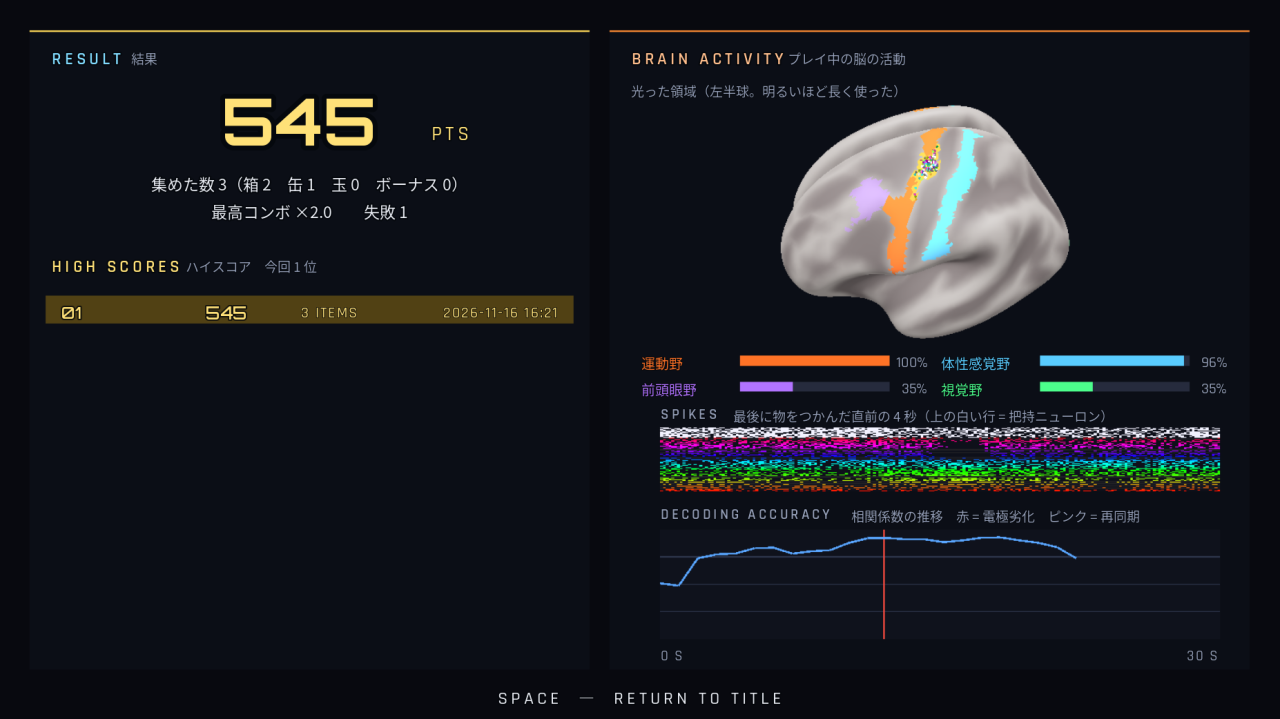
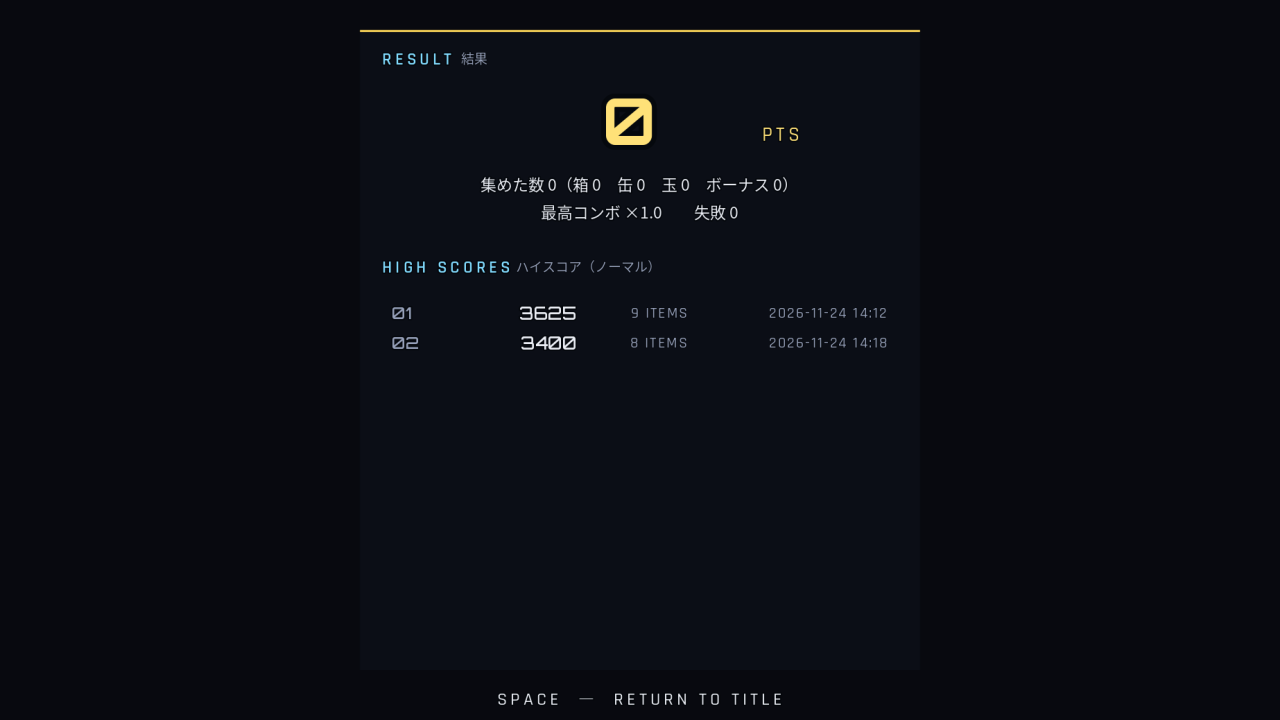
BCIオペレーター: 結果画面の右側(プレイ中の脳の活動)をなくし、結果とハイスコアのカードを中央に。使わなくなった記録(brain_record.py)も削除

diff --git a/03_bci_game/main.py b/03_bci_game/main.py
@@ -47,7 +47,6 @@ from OpenGL import GL as gl   # noqa: E402
 import config        # noqa: E402
 import highscore     # noqa: E402
 from brain_model import BrainModel                                  # noqa: E402
-from brain_record import BrainRecord                                # noqa: E402
 from brain_renderer import BrainView                                # noqa: E402
 from cortex_sim import CortexSim                                    # noqa: E402
 from field import Field                                             # noqa: E402
@@ -112,7 +111,6 @@ class Game:
         self.flash_until = 0.0           # 電極劣化の赤いフラッシュ
         self.popups = []                 # (文字, ワールド座標, 出た時刻)：得点の表示
         self.mission = None
-        self.record = BrainRecord()
         self.final = None                # 結果画面に出すもの
         self.recalibrating = False
         self.resume_play = False
@@ -202,7 +200,6 @@ class Game:
             self.last_bump = -1e9
             if self.rival is not None:
                 self.rival.reset()
-            self.record = BrainRecord()
             self.grip_switch = GripSwitch()
             self._prev_score = 0
             cam.yaw, cam.pitch, cam.goal_dist = -100.0, 30.0, 3.7
@@ -321,7 +318,6 @@ class Game:
         elif key == glfw.KEY_L and self.state == "play" and not self.recalibrating:
             self.recalibrating = True                   # 再同期（制限時間は進み続ける）
             self.hand_calib.start()
-            self.record.mark(self.mission.play_time, "recal_start")
             self.mission.log("recalibrate_start")
             self.events.append("recalibrate_start")
             self.notify("再同期：ターゲットを手で追いかける")
@@ -444,8 +440,6 @@ class Game:
                     motor = max(self.cortex.motor_drive, self.cortex.grip_drive)
                     self.brain.update_glow({"fef": selecting, "visual": selecting, "motor": motor, "hand": motor,
                                             "somato": self.cortex.grip_drive}, dt)
-                if self.state == "play":
-                    self.record.update(dt, self.brain.glow, self.cortex.metrics, self.mission.play_time)
 
                 self.view.render(now - start, dt, gaze, fps)
                 self.log_frame(now - start, gaze, g)
@@ -544,7 +538,6 @@ class Game:
             else:
                 self.notify(msg, 4.0)
                 self.recalibrating = False
-                self.record.mark(self.mission.play_time, "recal_end")
             return
         info = self.cortex.fit(*hc.data())
         lv = self.cortex.grip.levels
@@ -553,7 +546,6 @@ class Game:
         self.grip_switch = GripSwitch()
         if self.recalibrating:
             self.recalibrating = False
-            self.record.mark(self.mission.play_time, "recal_end")
             self.mission.log("recalibrate_ok")
             self.notify("再同期 完了：精度が戻った")
         elif self.state == "hand_calib":
@@ -569,7 +561,6 @@ class Game:
         if m.degrade_due():
             k = self.cortex.dropout(config.DEGRADE_FRACTION, config.DEGRADE_GRIP_FRACTION)
             m.log(f"degrade:{k}")
-            self.record.mark(m.play_time, "degrade")
             self.events.append(f"degrade:{k}")
             self.flash_until = time.monotonic() + config.DEGRADE_FLASH_SEC
             self.scene.shake()
@@ -694,7 +685,6 @@ class Game:
         rv, m = self.rival, self.mission
         if rv is None or not rv.freeze():
             return
-        self.record.mark(m.play_time, "freeze")
         self.notify(f"ライバルを止めた！（{config.FREEZE_SEC:.0f} 秒）")
 
     def arm_velocity(self):
@@ -719,7 +709,6 @@ class Game:
                 self.notify(f"つかみ損ね（コンボ ×{m.combo_mult:.1f} に下がった）")
             elif res is not None:
                 self.events.append(f"grasp_ok:{res.type}")
-                self.record.snapshot_raster(self.cortex.raster)
                 self.notify(f"{res.spec['name']}をつかんだ！ カゴを見つめて運ぶ")
                 self.selected = None
             return
@@ -765,13 +754,11 @@ class Game:
             self.rival.on_player_lock(it, self.robot)     # 強さに応じた確率で横取りしにくる
 
     def finish_game(self):
-        """ゲーム終了：ハイスコアに加え、結果画面の振り返りを用意する"""
+        """ゲーム終了：ハイスコアに加え、結果画面に出すものを用意する"""
         m = self.mission
-        if self.record.raster is None:
-            self.record.snapshot_raster(self.cortex.raster)
         scores, rank = highscore.add(m.result.score, m.result.collected, self.score_key)
-        self.final = {"result": m.result, "scores": scores, "rank": rank, "record": self.record, "mode": self.mode,
-                      "key": self.score_key, "usage": self.record.usage(), "rival": None}
+        self.final = {"result": m.result, "scores": scores, "rank": rank, "mode": self.mode,
+                      "key": self.score_key, "rival": None}
         rv = self.rival
         if rv is not None:
             me, them = m.result.score, rv.score
@@ -784,9 +771,7 @@ class Game:
               f"順位 {None if rank is None else rank + 1}"
               + ("" if rv is None else f"、ライバル（{rv.level}）{rv.score}（{rv.collected} 個）→ "
                  f"{self.final['rival']['outcome']}、止めた回数 {rv.freezes}"))
-        # 結果画面の脳：プレイ中にどれだけ使ったかで光らせる
-        self.brain.glow[:] = 0
-        self.brain.update_glow(self.final["usage"], 10.0)
+        self.brain.glow[:] = 0                         # 脳の光を消しておく（次の「脳と接続中」の画面のため）
 
     # --------------------------------------------------------
     def check_color_register(self):

diff --git a/03_bci_game/config.py b/03_bci_game/config.py
@@ -206,7 +206,6 @@ DEGRADE_SHAKE_SEC = 1.2       # 劣化したときにカメラ（視点）が揺
 
 GRAB_MARGIN = 0.03            # グリッパーの先が物の半径 + この距離以内なら、つかめる
 SCAN_RADIUS = 0.08            # （未使用の互換用）
-ACCURACY_LOG_SEC = 1.0        # デコード精度の推移を記録する間隔 [秒]
 HIGHSCORE_FILE = "saves/highscores.json"
 HIGHSCORE_OLD_CHALLENGE_FILE = "saves/highscores_old_challenge.json"   # 以前の「劣化あり」のチャレンジの記録
 HIGHSCORE_OLD_DISTANCE_FILE = "saves/highscores_old_distance.json"     # 距離の倍率があった頃（得点のルールが違う）の記録

diff --git a/03_bci_game/README.md b/03_bci_game/README.md
@@ -9,7 +9,7 @@ BCI（Brain-Computer Interface）でロボットを操作して、**制限時間
 
 現実の赤・青の物をカメラに見せると、3D の世界にボーナスアイテムが降ってきます。
 プレイ中には「電極劣化」が起き、再同期（キャリブレーションのやり直し）をするかどうかを自分で判断します。
-脳の表示は、「脳と接続中」の画面（本物の脳がふくらむ演出）、結果画面の「プレイ中の脳の活動」の振り返り、B キーの「裏側」で見られます。
+脳の表示は、「脳と接続中」の画面（本物の脳がふくらむ演出）と、B キーの「裏側」で見られます。
 OpenCV（カメラ、色の検出、文字）と OpenGL（シェーダーによる 3D 描画）を両方使っています。
 
 ![プレイ画面](docs/play.png)
@@ -95,7 +95,7 @@ cd 03_bci_game
    - 一度に運べるのは 1 個。持っていないときは物だけ、持っているときはカゴだけを視線で選べる
    - 行き先を決めたあと、つかむ前に別の物へ乗り換えるには **約 2 秒** 見つめる（決めた直後の 1 秒は選べない）。今の行き先を見ているあいだは隣の物に吸い付かない
    - ロボットが移動している間はアームが動かないので、その間に手をカメラの中央へ戻しておくと楽
-5. **結果**：スコア（チャレンジは勝ち・負け・引き分けと両者のスコア、止めた回数）、そのモード（チャレンジは強さごと）のハイスコア（上位 10 件）、プレイ中の脳の活動の振り返り → SPACE でタイトルへ（4 章の「結果画面の見方」）
+5. **結果**：スコア（チャレンジは勝ち・負け・引き分けと両者のスコア、止めた回数）、そのモード（チャレンジは強さごと）のハイスコア（上位 10 件）→ SPACE でタイトルへ（4 章の「結果画面の見方」）
 
 ### ルール
 
@@ -188,13 +188,12 @@ cd 03_bci_game
 
 ![結果](docs/result.png)
 
+結果とハイスコアのカード 1 枚を、画面の中央に出す（以前は右側に「プレイ中の脳の活動」の振り返りがあったが、脳の絵と領域の棒は毎回ほぼ同じになるので外した）。
+
 | 場所 | 内容 | 読み取れること |
 |---|---|---|
-| 左上 | スコア、集めた数（種類別）、最高コンボ、失敗の回数。チャレンジは勝ち・負け・引き分け、両者のスコアと集めた数、止めた回数・取られた回数・落とされた回数 | 小さい物（玉）を多く集めるほど、また失敗せずに続けるほど点が伸びる |
-| 左下 | 今回のモード（チャレンジはライバルの強さごと）のハイスコア上位 10 件（日時・スコア・集めた数）。今回が入ったら金色で強調 | 何回か遊んで上達を確かめられる（記録は `saves/highscores.json`） |
-| 右上：脳 | 左半球の外側面。プレイ中に各領域が光っていた強さの平均で光らせる（いちばん使った領域を 100% とする） | 運動野（オレンジ）= 手を動かした・握った、体性感覚野（水色）= 握った、前頭眼野（紫）・視覚野（緑）= 視線で選んだ。どの「脳の働き」を多く使ったかの振り返り |
-| 右中：スパイク | 最後に物をつかんだ瞬間の直前 4 秒のラスタープロット（下 = 方向のニューロン、好きな方向の色。上の白い行 = 把持ニューロン） | 手を動かした向きで色の帯が変わり、握った瞬間に上の白い行の発火が増える様子が見える |
-| 右下：グラフ | デコード精度（直近 5 秒の速度の相関係数）の推移。赤い縦線 = 電極劣化（劣化ありのときだけ）、水色の縦線 = ライバルを見つめて止めた時刻（チャレンジ）、ピンクの縦線 = 再同期の開始・終了 | 劣化の直後に精度がどう変わったか、再同期で戻ったかが分かる（手をほとんど動かしていない間は相関が計算できず、線が途切れる） |
+| 上 | スコア、集めた数（種類別）、最高コンボ、失敗の回数。チャレンジは勝ち・負け・引き分け、両者のスコアと集めた数、止めた回数・取られた回数・落とされた回数 | 小さい物（玉）を多く集めるほど、また失敗せずに続けるほど点が伸びる |
+| 下 | 今回のモード（チャレンジはライバルの強さごと）のハイスコア上位 10 件（日時・スコア・集めた数）。今回が入ったら金色で強調 | 何回か遊んで上達を確かめられる（記録は `saves/highscores.json`） |
 
 ## 5. しくみ
 
@@ -269,10 +268,10 @@ cd 03_bci_game
 - ワールド座標 (x, y)（机の上の平面）→ 3D (x − W/2, 高さ, H/2 − y)
 - 落ちてくる物（補充・ボーナス）は、簡単な重力の計算で上から落とす
 
-### 5.4 脳の表示（`brain_model.py`、`brain_renderer.py`、`brain_record.py`）
+### 5.4 脳の表示（`brain_model.py`、`brain_renderer.py`）
 - fsaverage5 の pial と inflated は同じ頂点番号が同じ場所に対応しているので、頂点シェーダーで 2 つの位置を混ぜて変形させる（タイトルの「接続中」）
 - 領域は Destrieux アトラスのラベルから決め、領域ごとの明るさで光らせる。擬似ニューロンは左半球の手の領域の表面上に置く
-- プレイ中は表示しないが、裏で光り方を計算し続け、`brain_record.py` が「各領域の使われ方（光の強さの時間平均）」「最後に物をつかんだときのラスター」「デコード精度の推移」「劣化・再同期の時刻」を記録して、結果画面で振り返る
+- プレイ中は表示しないが、裏で光り方を計算し続ける（B キーの「裏側」で見られる）
 
 ## 6. 実際の BCI 研究との対応
 
@@ -286,7 +285,6 @@ cd 03_bci_game
 | ライバルも擬似 BCI で動く（専用のニューロンとデコーダ。少ない・ノイズが多いとつかみ損ねる） | BCI の性能は、記録できるニューロンの数と質で決まる。ニューロンが多いほどデコード精度が上がる（Carmena ら 2003 のニューロン数とデコード精度の関係）。強さの違い = 記録の質の違い |
 | ライバルを見つめて止める（視線による反撃） | 視線（注視）を、カーソルの移動だけでなく「コマンド」の入力にも使う視線インタフェース。一定時間の注視で決定するのはドウェル選択と同じ（Jacob 1990） |
 | 電極劣化イベントと再同期（`--degrade` のとき） | 慢性埋め込み電極では、記録できるニューロンが時間とともに変わる・減る。再キャリブレーションや、使いながら学習し直す方法が研究されている（Perge ら 2013、Jarosiewicz ら 2015） |
-| デコード精度（相関）の推移 | BCI 研究でデコーダの評価に使う指標（02 の README も参照） |
 | 本物の脳（fsaverage5 + Destrieux）、手の領域（hand knob） | 標準脳の上に機能を対応づける脳画像研究の方法。hand knob は中心前回の手の領域の目印（Yousry ら 1997） |
 
 ## 7. 脳の部位
@@ -395,7 +393,6 @@ cd 03_bci_game
 | `mission.py` | ルール（得点・コンボ・電極劣化の予定・ボーナスの制限、ぶつかって落とす）、把持のヒステリシス | 新規 |
 | `rival.py` | チャレンジのライバル（行動、専用の擬似ニューロンとデコーダ、見つめて止める、ロボットどうしの押し合い） | 新規 |
 | `highscore.py` | ハイスコア（モードごとに上位 10 件、日時とスコア）。`saves/highscores.json`（git には入れない）。ノーマル・チャレンジ（ライバルの強さごと）。以前の「電極劣化あり」のチャレンジの記録は `saves/highscores_old_challenge.json`、距離の倍率があった頃の記録（2026-11-24 14:15 にランキングをリセットする前の記録）は `saves/highscores_old_distance.json` へ移して残す | 新規 |
-| `brain_record.py` | 結果画面の振り返り用の記録（領域の使われ方、ラスター、精度の推移、イベント） | 新規 |
 | `layout.py` | 画面の配置（同期パッド、視線同期の点） | 新規 |
 | `render_target.py` | 決まった解像度のオフスクリーンに描いて、ウィンドウいっぱいへ拡大 | 新規 |
 | `gl_backend.py` | 描画方式の自動選択（GPU = Wayland + EGL / ソフトウェア描画 = X11 + GLX）、fps の上限 | 新規 |
